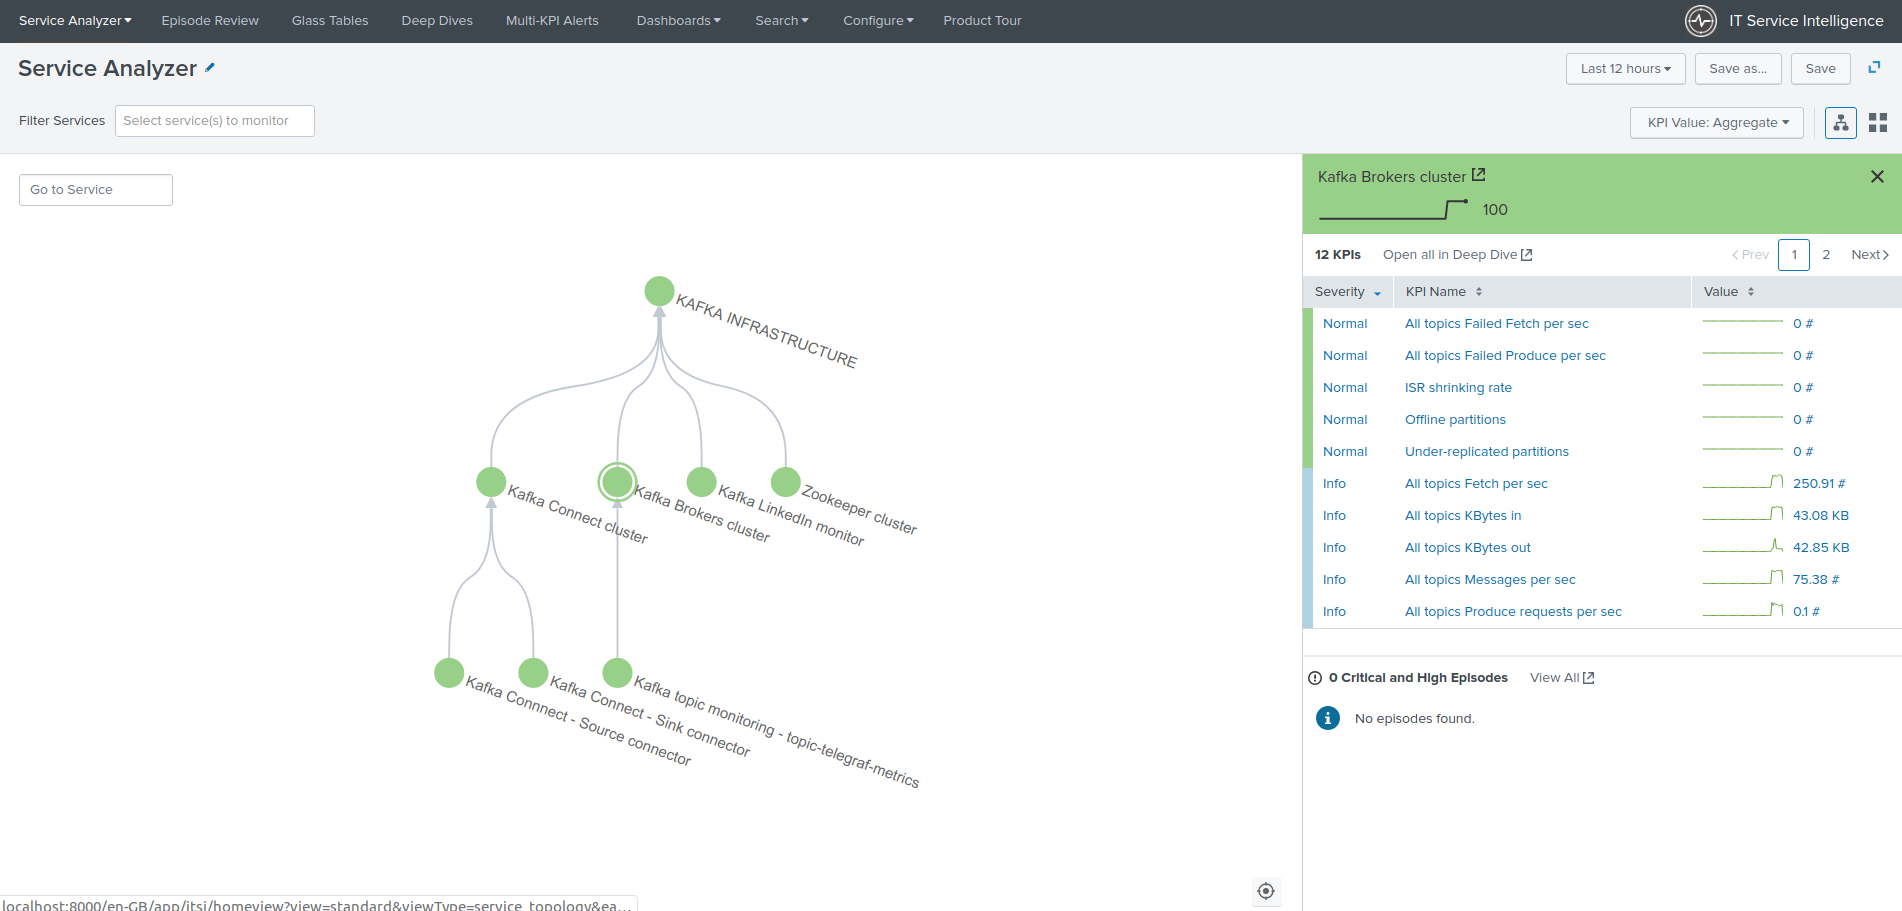
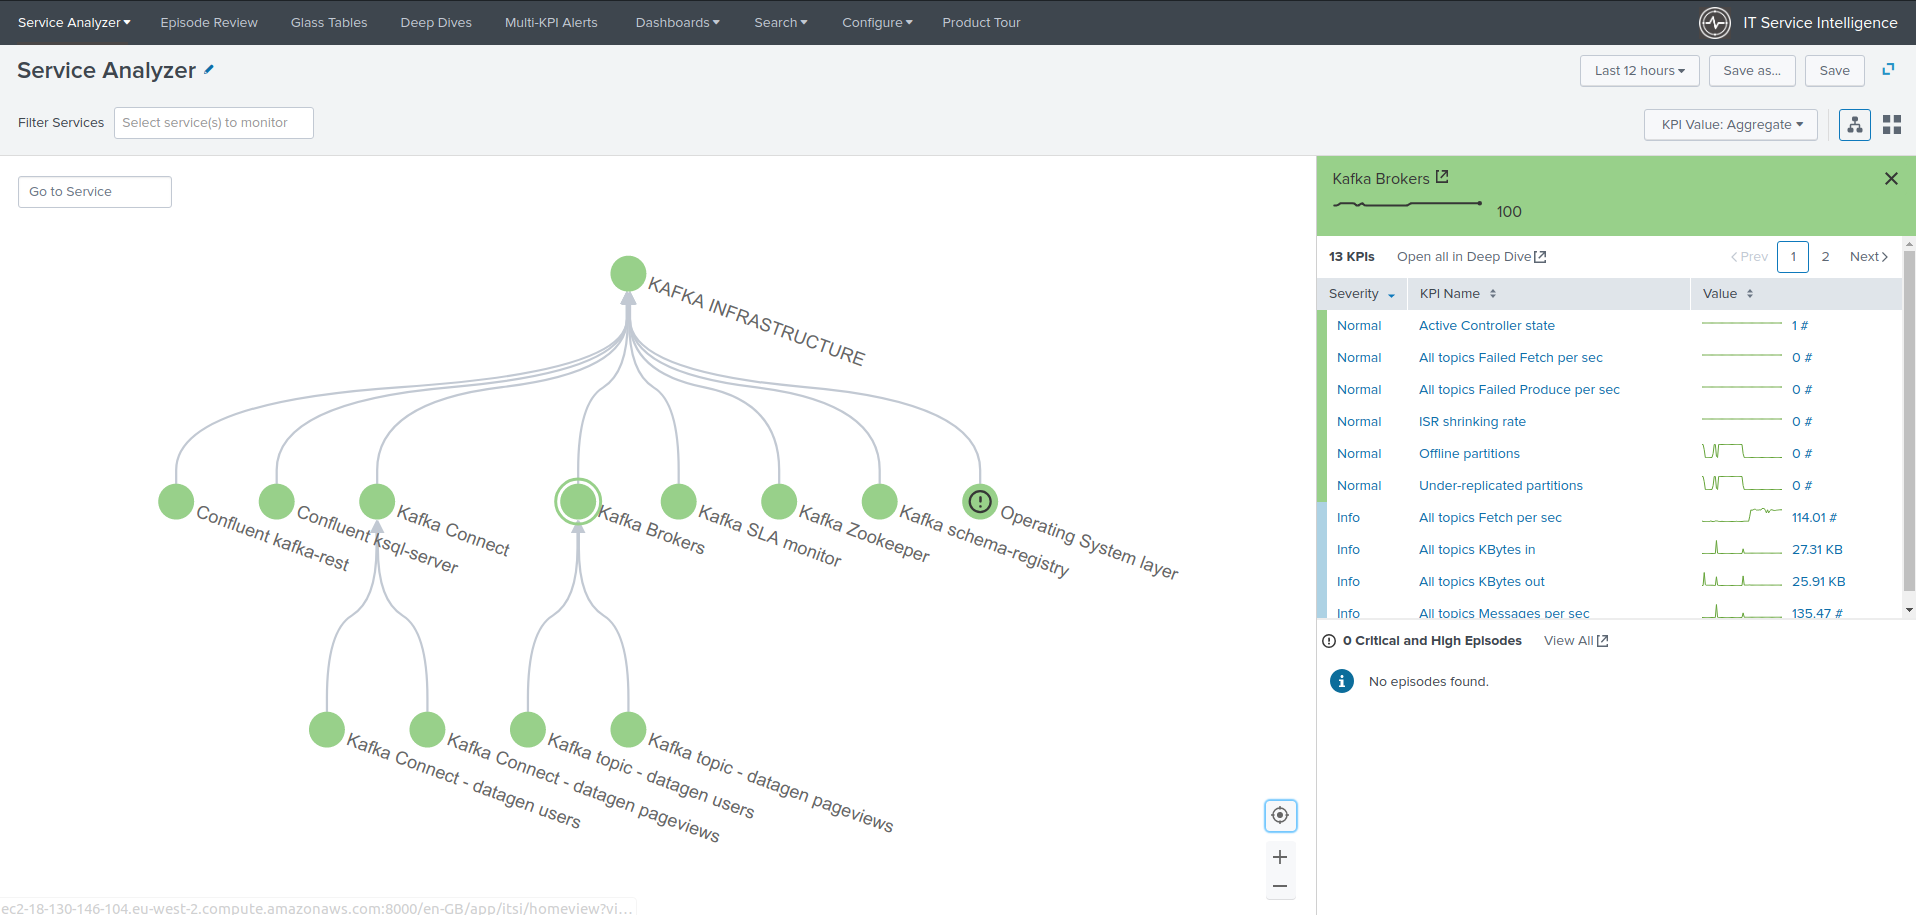
docs update

diff --git a/docs/service_creation.rst b/docs/service_creation.rst
@@ -3,23 +3,29 @@ Services creation
 
 **The ITSI module for Telegraf Kafka smart monitoring provides builtin services templates, relying on several base KPIs retrieving data from the metric store.**
 
-* **Zookeeper monitoring**: provides insight monitoring for Zookeeper servers
+* **Zookeeper monitoring**
 
-* **Kafka brokers monitoring**: provides insight monitoring for the Kafka broker infrastructure
+* **Kafka brokers monitoring**
 
-* **Kafka LinkedIn monitor**: provides insight monitoring for the LinkedIn Kafka monitor, end to end monitoring for your Kafka deployment
+* **Kafka LinkedIn monitor**
 
-* **Kafka topic monitoring**: provides insight momitoring for one or more Kafka topics
+* **Kafka topic monitoring**
 
-* **Kafka connect monitoring**: provides insight monitoring for the Kafka connect infrastructure
+* **Kafka connect monitoring**
 
-* **Kafka sink task monitoring**: provides insight monitoring for Kafka connect sink tasks
+* **Kafka sink task monitoring**
 
-* **Kafka source task monitoring**: provides insight monitoring for Kafka connect source tasks
+* **Kafka source task monitoring**
 
-**As a general practice, if you first goal is designing the IT infrastructure in ITSI, a good generic recommendation is to create a main service container for your Kafka infrastructure.**
+* **Confluent schema-registry monitoring**
 
-**As such, every service that will be designed will be linked to the main service. (the main service depends on them)**
+* **Confluent Confluent ksql-server monitoring**
+
+* **Confluent kafka-rest monitoring**
+
+As a general practice, if you first goal is designing the IT infrastructure in ITSI, a good generic recommendation is to create a main service container for your Kafka infrastructure.
+
+As such, every service that will be designed will be linked to the main service. (the main service depends on them)
 
 .. image:: img/itsi_dep.png
    :alt: itsi_dep.png
